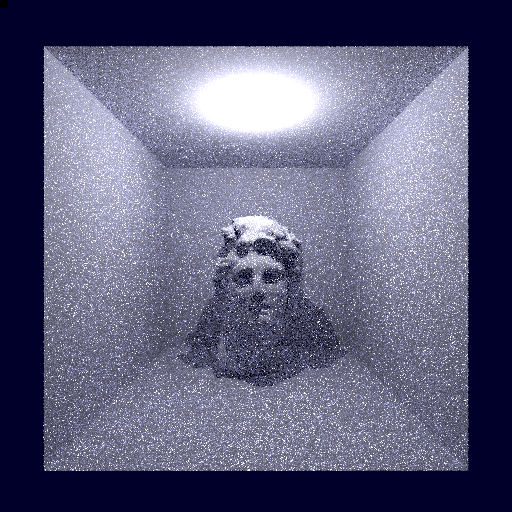
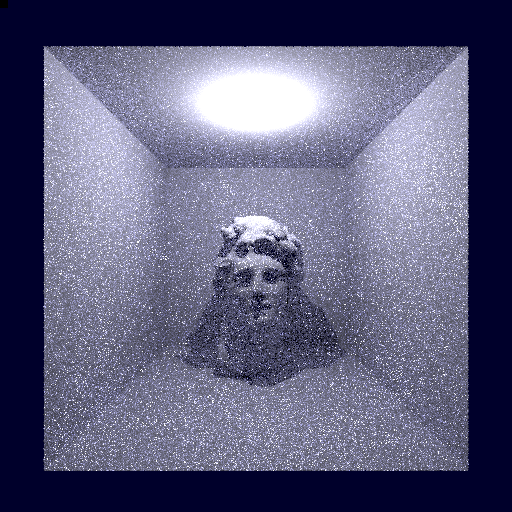
implement triangle intersector

diff --git a/src/utilities/multi_math.rs b/src/utilities/multi_math.rs
@@ -3,12 +3,10 @@ extern crate cgmath;
 use std::f32;
 use std::ops::{Add, Mul, Neg, Div, Sub};
 use utilities::cmp_util::CmpFn;
-use utilities::simd::{
-    SimdFloat4, SimdFloat8
-};
+use utilities::simd::{SimdFloat4, SimdFloat8, Align16, Align32};
 use utilities::math;
 use self::cgmath::Vector3;
-use utilities::math::apprx_eq;
+use utilities::math::{apprx_eq, Vec3};
 
 pub trait Sqrt {
     fn op_sqrt(&self) -> Self;
@@ -111,6 +109,21 @@ pub trait MultiNum {
     type Scalar: Copy + Vec3OpsElem;
     type Bool: Copy;
 
+    const SIZE: u32;
+
+    fn new_vec3_from_iter<It: Iterator<Item = Vec3>>(it: &mut It, default_num: f32) -> MultiVec3<Self>;
+    fn new_vec3_array_from_iter<It: Iterator<Item = Vec3>>(
+        mut it: It, default_num: f32
+    ) -> Vec<MultiVec3<Self>> {
+        let mut result = Vec::new();
+
+        let mut peekable = it.peekable();
+        while peekable.next().is_some() {
+            result.push(Self::new_vec3_from_iter(&mut peekable, default_num));
+        }
+        result
+    }
+
     fn scalar_zero() -> Self::Scalar;
     fn scalar_one() -> Self::Scalar;
     fn scalar_inf() -> Self::Scalar;
@@ -122,6 +135,8 @@ pub trait MultiNum {
     fn scalar_conditional_set(
         cond: Self::Bool, value_true: Self::Scalar, value_false: Self::Scalar
     ) -> Self::Scalar;
+    fn scalar_argmin(a: Self::Scalar) -> usize;
+    fn get_scalar_arg(a: Self::Scalar, idx: usize) -> f32;
 
     fn all_true(value: Self::Bool) -> bool;
 
@@ -134,6 +149,15 @@ pub struct MultiNum1;
 impl MultiNum for MultiNum1 {
     type Scalar = f32;
     type Bool = bool;
+
+    const SIZE: u32 = 1;
+
+    fn new_vec3_from_iter<It: Iterator<Item = Vec3>>(it: &mut It, default_num: f32) -> Vec3 {
+        match it.next() {
+            Some(value) => value,
+            None => Vec3::new(default_num, default_num, default_num)
+        }
+    }
 
     fn scalar_zero() -> f32 { 0.0f32 }
     fn scalar_one() -> f32 { 1.0f32 }
@@ -157,6 +181,14 @@ impl MultiNum for MultiNum1 {
         } else {
             value_false
         }
+    }
+
+    fn scalar_argmin(a: Self::Scalar) -> usize {
+        0
+    }
+
+    fn get_scalar_arg(a: Self::Scalar, idx: usize) -> f32 {
+        a
     }
 
     fn all_true(value: Self::Bool) -> bool {
@@ -183,6 +215,25 @@ impl MultiNum for MultiNum4 {
     type Scalar = SimdFloat4;
     type Bool = SimdFloat4;
 
+    const SIZE: u32 = 4;
+
+    fn new_vec3_from_iter<It: Iterator<Item = Vec3>>(
+        it: &mut It, default_num: f32
+    ) -> MultiVec3<Self> {
+        let mut res = [Align16([default_num; 4]); 3];
+        it.take(4).enumerate().for_each(|(i, elem)| {
+            res[0].0[i] = elem.x;
+            res[1].0[i] = elem.x;
+            res[2].0[i] = elem.x;
+        });
+
+        MultiVec3::<MultiNum4>::new(
+            SimdFloat4::new_load(&res[0]),
+            SimdFloat4::new_load(&res[1]),
+            SimdFloat4::new_load(&res[2])
+        )
+    }
+
     fn scalar_zero() -> SimdFloat4 { SimdFloat4::new_repeating(MultiNum1::scalar_zero()) }
     fn scalar_one() -> SimdFloat4 { SimdFloat4::new_repeating(MultiNum1::scalar_one()) }
     fn scalar_inf() -> SimdFloat4 { SimdFloat4::new_repeating(MultiNum1::scalar_inf()) }
@@ -201,6 +252,19 @@ impl MultiNum for MultiNum4 {
         cond: Self::Bool, value_true: Self::Scalar, value_false: Self::Scalar
     ) -> Self::Scalar {
         cond.conditional_set(value_true, value_false)
+    }
+
+    fn scalar_argmin(a: Self::Scalar) -> usize {
+        let arr = a.to_array();
+        let mut min_idx_value = (0, arr[0]);
+        for idx in 1..4 {
+            min_idx_value = (idx, arr[idx])
+        }
+        min_idx_value.0
+    }
+
+    fn get_scalar_arg(a: Self::Scalar, idx: usize) -> f32 {
+        a.to_array()[idx]
     }
 
     fn all_true(value: Self::Bool) -> bool {
@@ -227,6 +291,25 @@ impl MultiNum for MultiNum8 {
     type Scalar = SimdFloat8;
     type Bool = SimdFloat8;
 
+    const SIZE: u32 = 8;
+
+    fn new_vec3_from_iter<It: Iterator<Item = Vec3>>(
+        it: &mut It, default_num: f32
+    ) -> MultiVec3<Self> {
+        let mut res = [Align32([default_num; 8]); 3];
+        it.take(8).enumerate().for_each(|(i, elem)| {
+            res[0].0[i] = elem.x;
+            res[1].0[i] = elem.x;
+            res[2].0[i] = elem.x;
+        });
+
+        MultiVec3::<MultiNum8>::new(
+            SimdFloat8::new_load(&res[0]),
+            SimdFloat8::new_load(&res[1]),
+            SimdFloat8::new_load(&res[2])
+        )
+    }
+
     fn scalar_zero() -> SimdFloat8 { SimdFloat8::new_repeating(MultiNum1::scalar_zero()) }
     fn scalar_one() -> SimdFloat8 { SimdFloat8::new_repeating(MultiNum1::scalar_one()) }
     fn scalar_inf() -> SimdFloat8 { SimdFloat8::new_repeating(MultiNum1::scalar_inf()) }
@@ -245,6 +328,19 @@ impl MultiNum for MultiNum8 {
         cond: Self::Bool, value_true: Self::Scalar, value_false: Self::Scalar
     ) -> Self::Scalar {
         cond.conditional_set(value_true, value_false)
+    }
+
+    fn scalar_argmin(a: Self::Scalar) -> usize {
+        let arr = a.to_array();
+        let mut min_idx_value = (0, arr[0]);
+        for idx in 1..8 {
+            min_idx_value = (idx, arr[idx])
+        }
+        min_idx_value.0
+    }
+
+    fn get_scalar_arg(a: Self::Scalar, idx: usize) -> f32 {
+        a.to_array()[idx]
     }
 
     fn all_true(value: Self::Bool) -> bool {

diff --git a/src/engine/bvh/bvh_intersector.rs b/src/engine/bvh/bvh_intersector.rs
@@ -1,0 +1,86 @@
+use utilities::math::{Range, RayBase};
+use utilities::multi_math::{MultiNum, MultiVec3, MultiNum1};
+use engine::intersectable::Triangle;
+use engine::intersect_util::{TriangleIntersectionResult, IntersectionResult};
+use engine::intersect_util;
+use utilities::cmp_util::cmp;
+
+// TODO refactor rename to IntersectionResult
+trait GenericIntersectionResult {
+    fn intersection_t(&self) -> f32;
+}
+
+impl GenericIntersectionResult for TriangleIntersectionResult<MultiNum1> {
+    fn intersection_t(&self) -> f32 {
+        self.t
+    }
+}
+
+trait Intersector<Primitive, N: MultiNum> {
+    type IntersectionOutput: GenericIntersectionResult;
+
+    fn new(bvh_to_parent_idx: &[usize], primitives: &[Primitive]) -> Self;
+
+    /// attepmts to intersect with primitives specified by the given range.
+    /// may try to intersect with a few more primitives than those that lie inside
+    /// the given range.
+    fn intersect(&self, ray: &RayBase<N>, bvh_index_range: Range<usize>) -> Self::IntersectionOutput;
+}
+
+struct TriangleIntersector<N: MultiNum> {
+    position: Vec<MultiVec3<N>>,
+    edge1: Vec<MultiVec3<N>>,
+    edge2: Vec<MultiVec3<N>>
+}
+
+impl<N: MultiNum> Intersector<Triangle, N> for TriangleIntersector<N> {
+    type IntersectionOutput = TriangleIntersectionResult<MultiNum1>;
+
+    fn new(bvh_to_parent_idx: &[usize], primitives: &[Triangle]) -> Self {
+        let position =  N::new_vec3_array_from_iter(
+            primitives.iter().map(|triangle| triangle.positions[0]),
+            0.0f32
+        );
+        let edge1 = N::new_vec3_array_from_iter(
+            primitives.iter().map(|triangle| triangle.positions[1] - triangle.positions[0]),
+            0.0f32
+        );
+        let edge2 = N::new_vec3_array_from_iter(
+            primitives.iter().map(|triangle| triangle.positions[2] - triangle.positions[0]),
+            0.0f32
+        );
+
+        TriangleIntersector {
+            position, edge1, edge2
+        }
+    }
+
+    fn intersect(&self, ray: &RayBase<N>, bvh_index_range: Range<usize>) -> Self::IntersectionOutput {
+        let mut closest_intersection =
+            TriangleIntersectionResult::<N>::new_no_intersection();
+        for bvh_idx in bvh_index_range {
+            let candidate_intersection = intersect_util::intersect_triangle::<N>(
+                ray,
+                &self.position[bvh_idx],
+                &self.edge1[bvh_idx],
+                &self.edge2[bvh_idx]
+            );
+
+            let candidate_lt_closest=
+                N::scalar_cmp::<cmp::Lt>(candidate_intersection.t, closest_intersection.t);
+            closest_intersection.t = N::scalar_conditional_set(
+                candidate_lt_closest, candidate_intersection.t, closest_intersection.t);
+            closest_intersection.gamma = N::scalar_conditional_set(
+                candidate_lt_closest, candidate_intersection.gamma, closest_intersection.gamma);
+            closest_intersection.beta = N::scalar_conditional_set(
+                candidate_lt_closest, candidate_intersection.beta , closest_intersection.beta);
+        }
+
+        let min_idx = N::scalar_argmin(closest_intersection.t);
+        IntersectionResult {
+            t: N::get_scalar_arg(closest_intersection.t, min_idx),
+            beta: N::get_scalar_arg(closest_intersection.beta, min_idx),
+            gamma: N::get_scalar_arg(closest_intersection.gamma, min_idx)
+        }
+    }
+}

diff --git a/src/utilities/simd.rs b/src/utilities/simd.rs
@@ -83,11 +83,11 @@ pub struct SimdFloat8(__m256);
 
 #[derive(Debug, Clone, Copy)]
 #[repr(align(16))]
-pub struct Align16<T>(T);
+pub struct Align16<T>(pub T);
 
 #[derive(Debug, Clone, Copy)]
 #[repr(align(32))]
-pub struct Align32<T>(T);
+pub struct Align32<T>(pub T);
 
 #[cfg(all(target_arch = "x86_64", target_feature = "avx"))]
 impl SimdFloat4 {
@@ -117,6 +117,11 @@ impl SimdFloat4 {
         // set_ps expects reverse order
         let simdvec = unsafe {intrin::_mm_set_ps(e3, e2, e1, e0)};
         SimdFloat4(simdvec)
+    }
+
+    pub fn new_load(buffer: &Align16<[f32; 4]>) -> SimdFloat4 {
+        let ptr = buffer.0.as_ptr();
+        unsafe { intrin::_mm_load_ps(ptr).into() }
     }
 
     pub fn store(&self, buffer: &mut Align16<[f32; 4]>) {
@@ -255,6 +260,11 @@ impl SimdFloat8 {
         // set_ps expects reverse order
         let simdvec = unsafe { intrin::_mm256_set_ps(e7, e6, e5, e4, e3, e2, e1, e0) };
         SimdFloat8(simdvec)
+    }
+
+    pub fn new_load(buffer: &Align32<[f32; 8]>) -> SimdFloat8 {
+        let ptr = buffer.0.as_ptr();
+        unsafe { intrin::_mm256_load_ps(ptr).into() }
     }
 
     pub fn m256(&self) -> __m256 {

diff --git a/src/engine/intersect_util.rs b/src/engine/intersect_util.rs
@@ -4,6 +4,8 @@ use utilities::math::RayBase;
 use utilities::cmp_util::{CmpFn, cmp};
 use cgmath::InnerSpace;
 
+pub type TriangleIntersectionResult<N> = IntersectionResult<N>;
+
 #[derive(Clone, Debug)]
 pub struct IntersectionResult<N: MultiNum> {
     pub t: N::Scalar,

diff --git a/src/engine/bvh/mod.rs b/src/engine/bvh/mod.rs
@@ -1,4 +1,5 @@
 
+pub mod bvh_intersector;
 mod bvh_accelerator;
 mod aabb;
 mod splitter;
